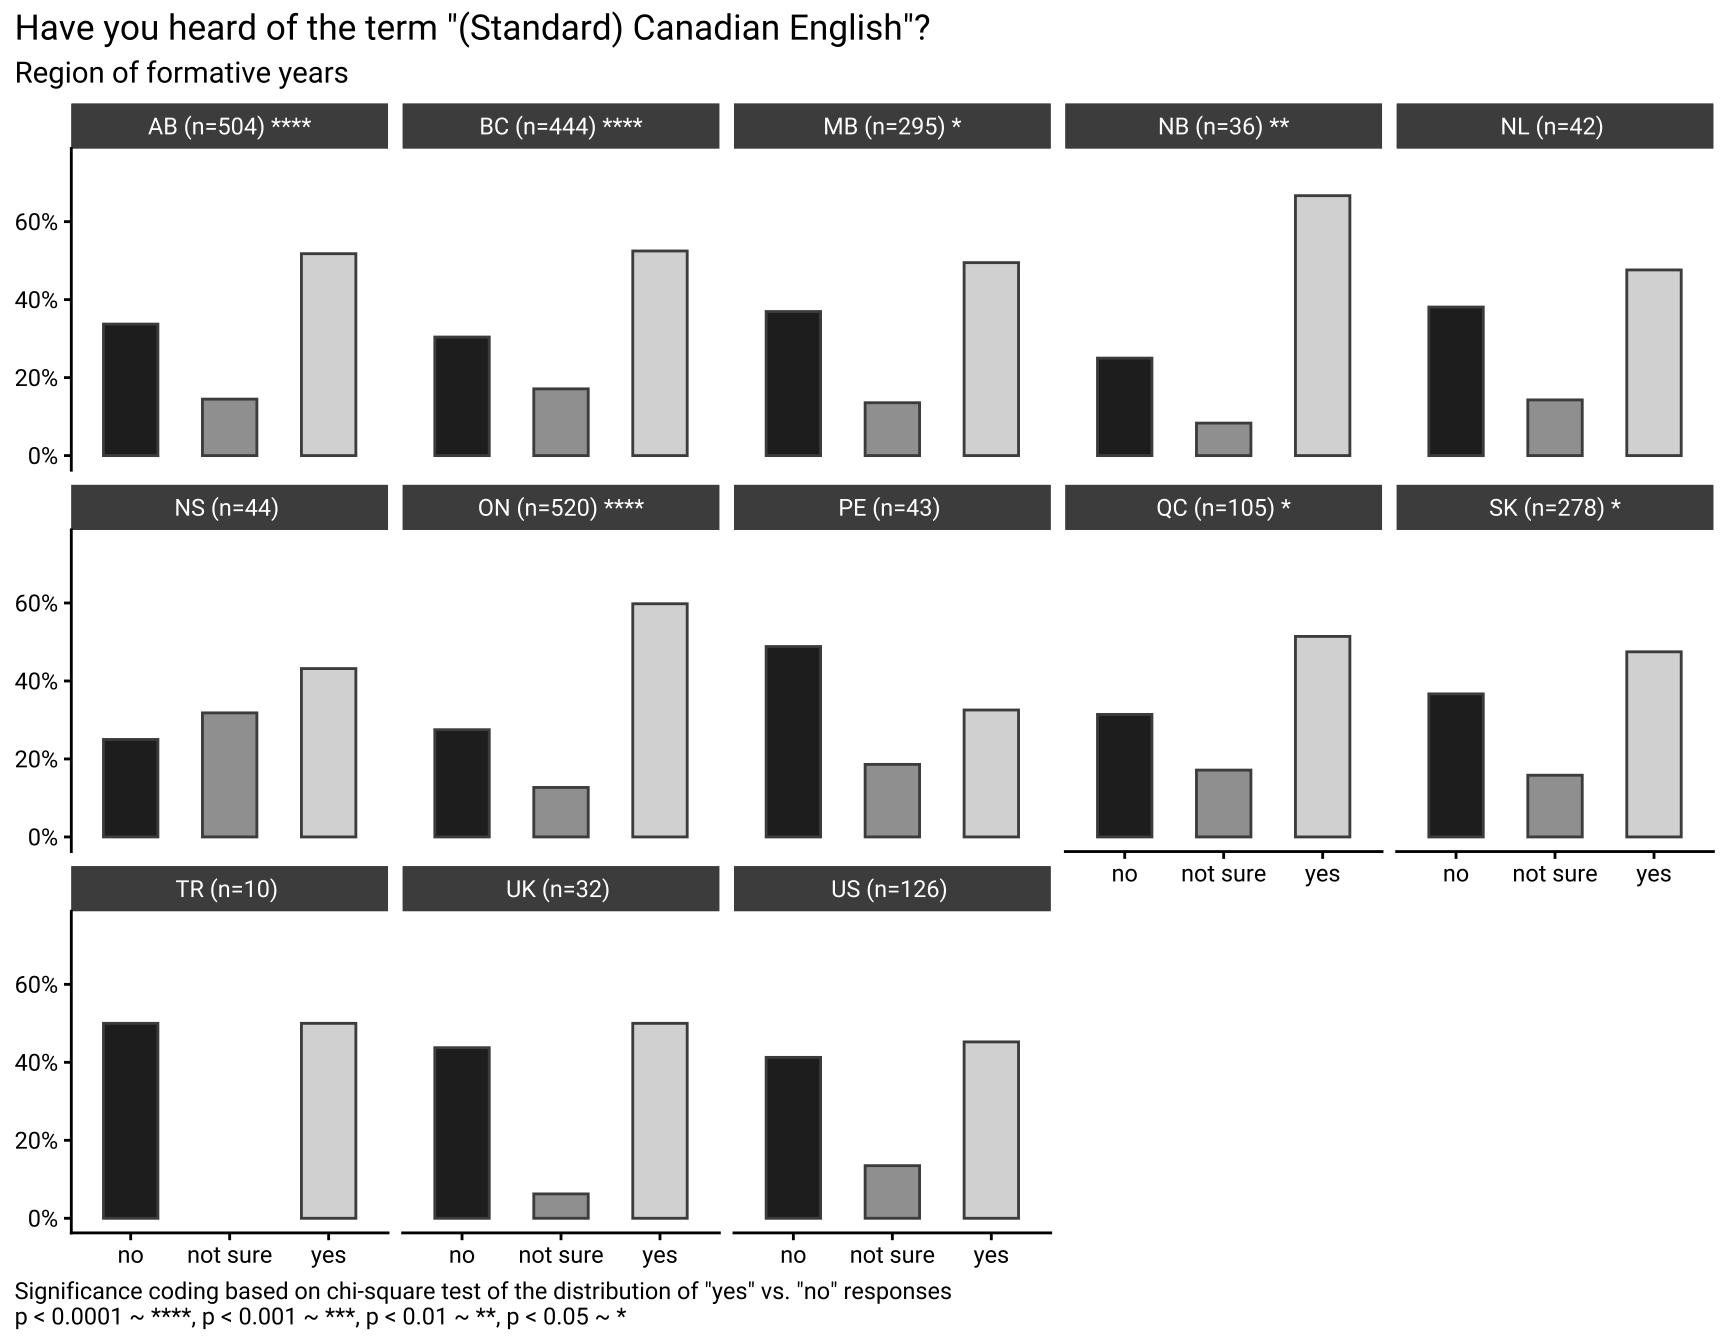
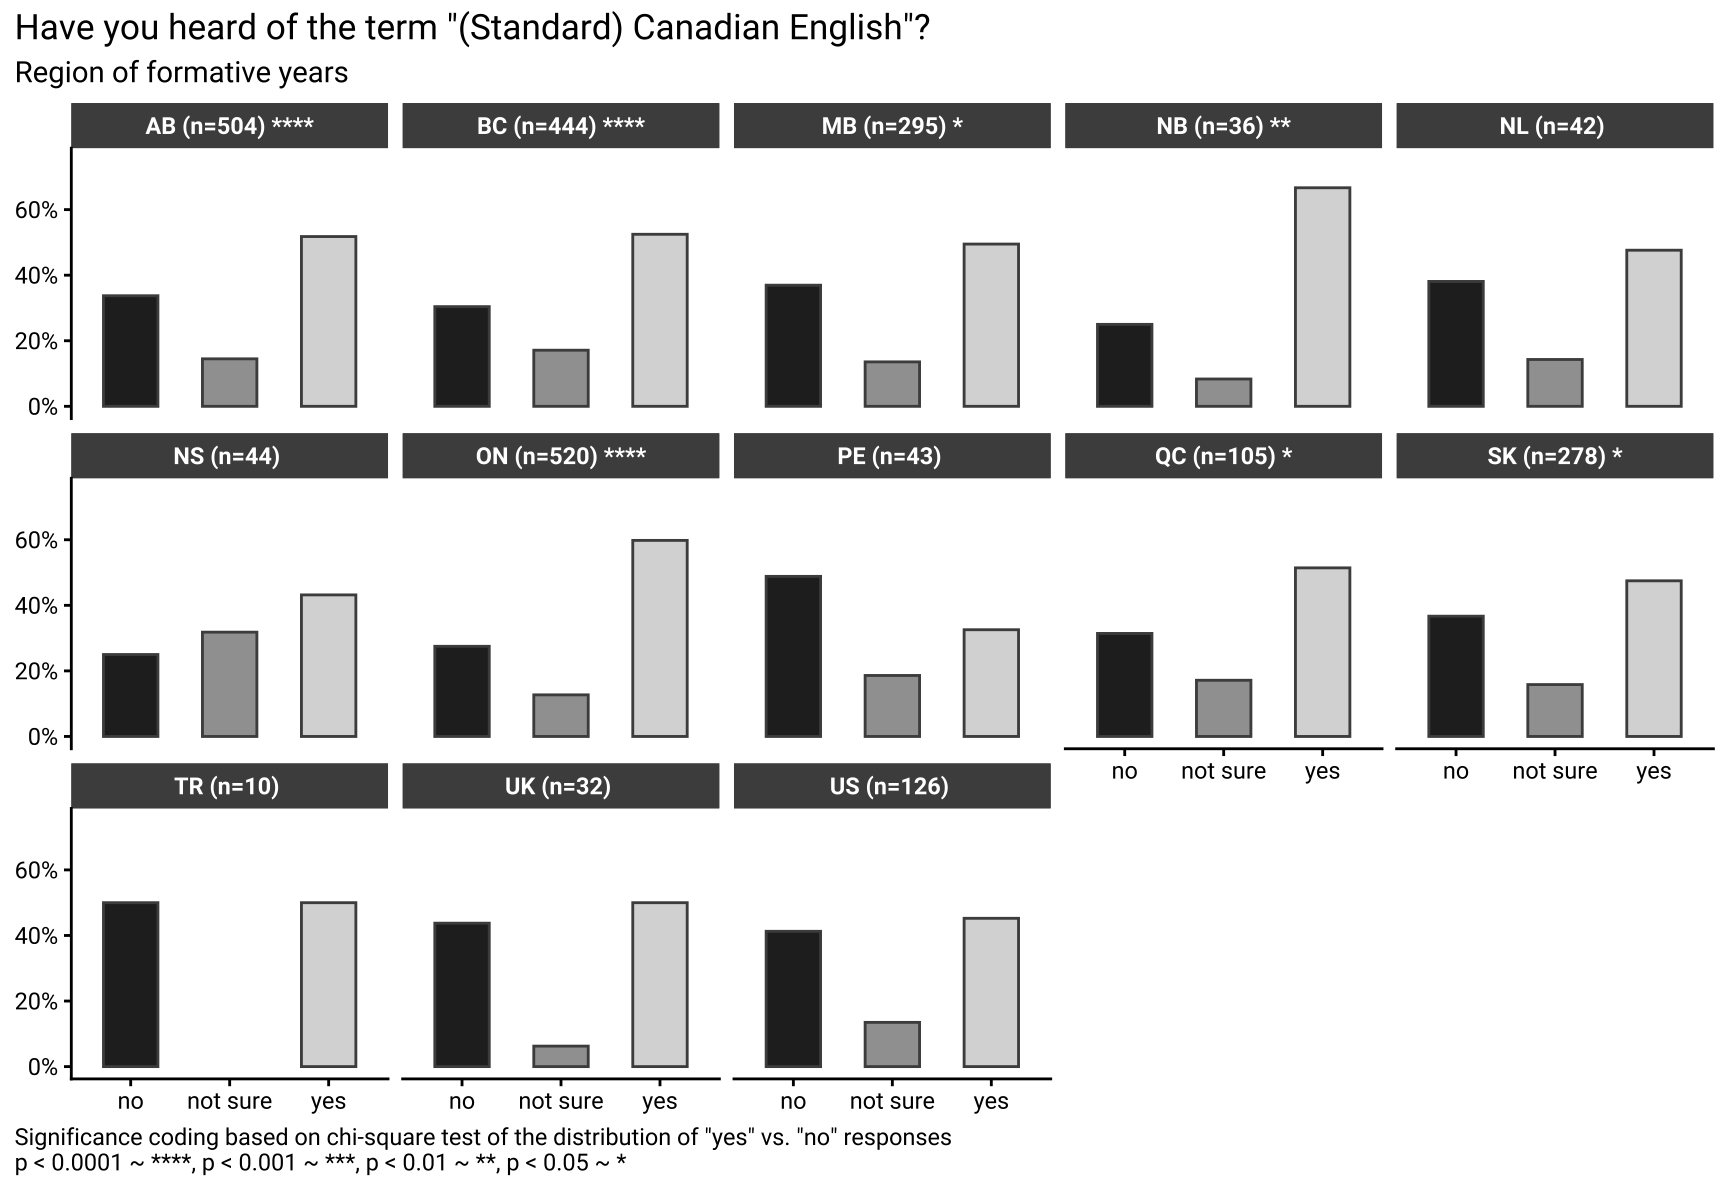
fonts fig 4

diff --git a/index.html b/index.html
@@ -333,23 +333,23 @@ To Stefan
 <p>I have selected the following variables by short names, hoping that these are the correct ones to show in Figure 2.</p>
 <div class="cell">
 <div class="cell-output-display">
-<div id="slkbmikjwu" style="padding-left:0px;padding-right:0px;padding-top:10px;padding-bottom:10px;overflow-x:auto;overflow-y:auto;width:auto;height:auto;">
-<style>#slkbmikjwu table {
+<div id="qpcyoikcrb" style="padding-left:0px;padding-right:0px;padding-top:10px;padding-bottom:10px;overflow-x:auto;overflow-y:auto;width:auto;height:auto;">
+<style>#qpcyoikcrb table {
   font-family: system-ui, 'Segoe UI', Roboto, Helvetica, Arial, sans-serif, 'Apple Color Emoji', 'Segoe UI Emoji', 'Segoe UI Symbol', 'Noto Color Emoji';
   -webkit-font-smoothing: antialiased;
   -moz-osx-font-smoothing: grayscale;
 }
 
-#slkbmikjwu thead, #slkbmikjwu tbody, #slkbmikjwu tfoot, #slkbmikjwu tr, #slkbmikjwu td, #slkbmikjwu th {
+#qpcyoikcrb thead, #qpcyoikcrb tbody, #qpcyoikcrb tfoot, #qpcyoikcrb tr, #qpcyoikcrb td, #qpcyoikcrb th {
   border-style: none;
 }
 
-#slkbmikjwu p {
+#qpcyoikcrb p {
   margin: 0;
   padding: 0;
 }
 
-#slkbmikjwu .gt_table {
+#qpcyoikcrb .gt_table {
   display: table;
   border-collapse: collapse;
   line-height: normal;
@@ -375,12 +375,12 @@ To Stefan
   border-left-color: #D3D3D3;
 }
 
-#slkbmikjwu .gt_caption {
+#qpcyoikcrb .gt_caption {
   padding-top: 4px;
   padding-bottom: 4px;
 }
 
-#slkbmikjwu .gt_title {
+#qpcyoikcrb .gt_title {
   color: #333333;
   font-size: 125%;
   font-weight: initial;
@@ -392,7 +392,7 @@ To Stefan
   border-bottom-width: 0;
 }
 
-#slkbmikjwu .gt_subtitle {
+#qpcyoikcrb .gt_subtitle {
   color: #333333;
   font-size: 85%;
   font-weight: initial;
@@ -404,7 +404,7 @@ To Stefan
   border-top-width: 0;
 }
 
-#slkbmikjwu .gt_heading {
+#qpcyoikcrb .gt_heading {
   background-color: #FFFFFF;
   text-align: center;
   border-bottom-color: #FFFFFF;
@@ -416,13 +416,13 @@ To Stefan
   border-right-color: #D3D3D3;
 }
 
-#slkbmikjwu .gt_bottom_border {
+#qpcyoikcrb .gt_bottom_border {
   border-bottom-style: solid;
   border-bottom-width: 2px;
   border-bottom-color: #D3D3D3;
 }
 
-#slkbmikjwu .gt_col_headings {
+#qpcyoikcrb .gt_col_headings {
   border-top-style: solid;
   border-top-width: 2px;
   border-top-color: #D3D3D3;
@@ -437,7 +437,7 @@ To Stefan
   border-right-color: #D3D3D3;
 }
 
-#slkbmikjwu .gt_col_heading {
+#qpcyoikcrb .gt_col_heading {
   color: #333333;
   background-color: #FFFFFF;
   font-size: 100%;
@@ -457,7 +457,7 @@ To Stefan
   overflow-x: hidden;
 }
 
-#slkbmikjwu .gt_column_spanner_outer {
+#qpcyoikcrb .gt_column_spanner_outer {
   color: #333333;
   background-color: #FFFFFF;
   font-size: 100%;
@@ -469,15 +469,15 @@ To Stefan
   padding-right: 4px;
 }
 
-#slkbmikjwu .gt_column_spanner_outer:first-child {
+#qpcyoikcrb .gt_column_spanner_outer:first-child {
   padding-left: 0;
 }
 
-#slkbmikjwu .gt_column_spanner_outer:last-child {
+#qpcyoikcrb .gt_column_spanner_outer:last-child {
   padding-right: 0;
 }
 
-#slkbmikjwu .gt_column_spanner {
+#qpcyoikcrb .gt_column_spanner {
   border-bottom-style: solid;
   border-bottom-width: 2px;
   border-bottom-color: #D3D3D3;
@@ -489,11 +489,11 @@ To Stefan
   width: 100%;
 }
 
-#slkbmikjwu .gt_spanner_row {
+#qpcyoikcrb .gt_spanner_row {
   border-bottom-style: hidden;
 }
 
-#slkbmikjwu .gt_group_heading {
+#qpcyoikcrb .gt_group_heading {
   padding-top: 8px;
   padding-bottom: 8px;
   padding-left: 5px;
@@ -519,7 +519,7 @@ To Stefan
   text-align: left;
 }
 
-#slkbmikjwu .gt_empty_group_heading {
+#qpcyoikcrb .gt_empty_group_heading {
   padding: 0.5px;
   color: #333333;
   background-color: #FFFFFF;
@@ -534,15 +534,15 @@ To Stefan
   vertical-align: middle;
 }
 
-#slkbmikjwu .gt_from_md > :first-child {
+#qpcyoikcrb .gt_from_md > :first-child {
   margin-top: 0;
 }
 
-#slkbmikjwu .gt_from_md > :last-child {
+#qpcyoikcrb .gt_from_md > :last-child {
   margin-bottom: 0;
 }
 
-#slkbmikjwu .gt_row {
+#qpcyoikcrb .gt_row {
   padding-top: 8px;
   padding-bottom: 8px;
   padding-left: 5px;
@@ -561,7 +561,7 @@ To Stefan
   overflow-x: hidden;
 }
 
-#slkbmikjwu .gt_stub {
+#qpcyoikcrb .gt_stub {
   color: #333333;
   background-color: #FFFFFF;
   font-size: 100%;
@@ -574,7 +574,7 @@ To Stefan
   padding-right: 5px;
 }
 
-#slkbmikjwu .gt_stub_row_group {
+#qpcyoikcrb .gt_stub_row_group {
   color: #333333;
   background-color: #FFFFFF;
   font-size: 100%;
@@ -588,15 +588,15 @@ To Stefan
   vertical-align: top;
 }
 
-#slkbmikjwu .gt_row_group_first td {
+#qpcyoikcrb .gt_row_group_first td {
   border-top-width: 2px;
 }
 
-#slkbmikjwu .gt_row_group_first th {
+#qpcyoikcrb .gt_row_group_first th {
   border-top-width: 2px;
 }
 
-#slkbmikjwu .gt_summary_row {
+#qpcyoikcrb .gt_summary_row {
   color: #333333;
   background-color: #FFFFFF;
   text-transform: inherit;
@@ -606,16 +606,16 @@ To Stefan
   padding-right: 5px;
 }
 
-#slkbmikjwu .gt_first_summary_row {
+#qpcyoikcrb .gt_first_summary_row {
   border-top-style: solid;
   border-top-color: #D3D3D3;
 }
 
-#slkbmikjwu .gt_first_summary_row.thick {
+#qpcyoikcrb .gt_first_summary_row.thick {
   border-top-width: 2px;
 }
 
-#slkbmikjwu .gt_last_summary_row {
+#qpcyoikcrb .gt_last_summary_row {
   padding-top: 8px;
   padding-bottom: 8px;
   padding-left: 5px;
@@ -625,7 +625,7 @@ To Stefan
   border-bottom-color: #D3D3D3;
 }
 
-#slkbmikjwu .gt_grand_summary_row {
+#qpcyoikcrb .gt_grand_summary_row {
   color: #333333;
   background-color: #FFFFFF;
   text-transform: inherit;
@@ -635,7 +635,7 @@ To Stefan
   padding-right: 5px;
 }
 
-#slkbmikjwu .gt_first_grand_summary_row {
+#qpcyoikcrb .gt_first_grand_summary_row {
   padding-top: 8px;
   padding-bottom: 8px;
   padding-left: 5px;
@@ -645,7 +645,7 @@ To Stefan
   border-top-color: #D3D3D3;
 }
 
-#slkbmikjwu .gt_last_grand_summary_row_top {
+#qpcyoikcrb .gt_last_grand_summary_row_top {
   padding-top: 8px;
   padding-bottom: 8px;
   padding-left: 5px;
@@ -655,11 +655,11 @@ To Stefan
   border-bottom-color: #D3D3D3;
 }
 
-#slkbmikjwu .gt_striped {
+#qpcyoikcrb .gt_striped {
   background-color: rgba(128, 128, 128, 0.05);
 }
 
-#slkbmikjwu .gt_table_body {
+#qpcyoikcrb .gt_table_body {
   border-top-style: solid;
   border-top-width: 2px;
   border-top-color: #D3D3D3;
@@ -668,7 +668,7 @@ To Stefan
   border-bottom-color: #D3D3D3;
 }
 
-#slkbmikjwu .gt_footnotes {
+#qpcyoikcrb .gt_footnotes {
   color: #333333;
   background-color: #FFFFFF;
   border-bottom-style: none;
@@ -682,7 +682,7 @@ To Stefan
   border-right-color: #D3D3D3;
 }
 
-#slkbmikjwu .gt_footnote {
+#qpcyoikcrb .gt_footnote {
   margin: 0px;
   font-size: 90%;
   padding-top: 4px;
@@ -691,7 +691,7 @@ To Stefan
   padding-right: 5px;
 }
 
-#slkbmikjwu .gt_sourcenotes {
+#qpcyoikcrb .gt_sourcenotes {
   color: #333333;
   background-color: #FFFFFF;
   border-bottom-style: none;
@@ -705,7 +705,7 @@ To Stefan
   border-right-color: #D3D3D3;
 }
 
-#slkbmikjwu .gt_sourcenote {
+#qpcyoikcrb .gt_sourcenote {
   font-size: 90%;
   padding-top: 4px;
   padding-bottom: 4px;
@@ -713,72 +713,72 @@ To Stefan
   padding-right: 5px;
 }
 
-#slkbmikjwu .gt_left {
+#qpcyoikcrb .gt_left {
   text-align: left;
 }
 
-#slkbmikjwu .gt_center {
+#qpcyoikcrb .gt_center {
   text-align: center;
 }
 
-#slkbmikjwu .gt_right {
+#qpcyoikcrb .gt_right {
   text-align: right;
   font-variant-numeric: tabular-nums;
 }
 
-#slkbmikjwu .gt_font_normal {
+#qpcyoikcrb .gt_font_normal {
   font-weight: normal;
 }
 
-#slkbmikjwu .gt_font_bold {
+#qpcyoikcrb .gt_font_bold {
   font-weight: bold;
 }
 
-#slkbmikjwu .gt_font_italic {
+#qpcyoikcrb .gt_font_italic {
   font-style: italic;
 }
 
-#slkbmikjwu .gt_super {
+#qpcyoikcrb .gt_super {
   font-size: 65%;
 }
 
-#slkbmikjwu .gt_footnote_marks {
+#qpcyoikcrb .gt_footnote_marks {
   font-size: 75%;
   vertical-align: 0.4em;
   position: initial;
 }
 
-#slkbmikjwu .gt_asterisk {
+#qpcyoikcrb .gt_asterisk {
   font-size: 100%;
   vertical-align: 0;
 }
 
-#slkbmikjwu .gt_indent_1 {
+#qpcyoikcrb .gt_indent_1 {
   text-indent: 5px;
 }
 
-#slkbmikjwu .gt_indent_2 {
+#qpcyoikcrb .gt_indent_2 {
   text-indent: 10px;
 }
 
-#slkbmikjwu .gt_indent_3 {
+#qpcyoikcrb .gt_indent_3 {
   text-indent: 15px;
 }
 
-#slkbmikjwu .gt_indent_4 {
+#qpcyoikcrb .gt_indent_4 {
   text-indent: 20px;
 }
 
-#slkbmikjwu .gt_indent_5 {
+#qpcyoikcrb .gt_indent_5 {
   text-indent: 25px;
 }
 
-#slkbmikjwu .katex-display {
+#qpcyoikcrb .katex-display {
   display: inline-flex !important;
   margin-bottom: 0.75em !important;
 }
 
-#slkbmikjwu div.Reactable > div.rt-table > div.rt-thead > div.rt-tr.rt-tr-group-header > div.rt-th-group:after {
+#qpcyoikcrb div.Reactable > div.rt-table > div.rt-thead > div.rt-tr.rt-tr-group-header > div.rt-th-group:after {
   height: 0px !important;
 }
 </style>
@@ -1234,11 +1234,12 @@ Figure&nbsp;3: Canadian dictionary titles and the phrase “Canadian English” 
 <span id="cb4-80"><a href="#cb4-80" aria-hidden="true" tabindex="-1"></a>    <span class="at">plot.caption.position =</span> <span class="st">"plot"</span>,</span>
 <span id="cb4-81"><a href="#cb4-81" aria-hidden="true" tabindex="-1"></a>    <span class="at">plot.caption =</span> <span class="fu">element_text</span>(<span class="at">hjust =</span> <span class="dv">0</span>),</span>
 <span id="cb4-82"><a href="#cb4-82" aria-hidden="true" tabindex="-1"></a>    <span class="at">strip.background =</span> <span class="fu">element_rect</span>(<span class="at">fill =</span> <span class="st">"grey30"</span>, <span class="at">color =</span> <span class="st">"grey30"</span>), </span>
-<span id="cb4-83"><a href="#cb4-83" aria-hidden="true" tabindex="-1"></a>    <span class="at">strip.text =</span> <span class="fu">element_text</span>(<span class="at">color =</span> <span class="st">"white"</span>)</span>
-<span id="cb4-84"><a href="#cb4-84" aria-hidden="true" tabindex="-1"></a>    )</span>
-<span id="cb4-85"><a href="#cb4-85" aria-hidden="true" tabindex="-1"></a></span>
-<span id="cb4-86"><a href="#cb4-86" aria-hidden="true" tabindex="-1"></a><span class="co"># p3 + scale_fill_manual(values = c("#E69F00", "#0072B2", "#F0E442", "#D55E00", "#CC79A7")) </span></span>
-<span id="cb4-87"><a href="#cb4-87" aria-hidden="true" tabindex="-1"></a>p3 <span class="sc">+</span> <span class="fu">scale_fill_grey</span>(<span class="at">start=</span><span class="fl">0.15</span>, <span class="at">end=</span>.<span class="dv">85</span>)</span></code><button title="Copy to Clipboard" class="code-copy-button"><i class="bi"></i></button></pre></div>
+<span id="cb4-83"><a href="#cb4-83" aria-hidden="true" tabindex="-1"></a>    <span class="at">strip.text =</span> <span class="fu">element_text</span>(<span class="at">color =</span> <span class="st">"white"</span>,</span>
+<span id="cb4-84"><a href="#cb4-84" aria-hidden="true" tabindex="-1"></a>                              <span class="at">face =</span> <span class="st">"bold"</span>)</span>
+<span id="cb4-85"><a href="#cb4-85" aria-hidden="true" tabindex="-1"></a>    )</span>
+<span id="cb4-86"><a href="#cb4-86" aria-hidden="true" tabindex="-1"></a></span>
+<span id="cb4-87"><a href="#cb4-87" aria-hidden="true" tabindex="-1"></a><span class="co"># p3 + scale_fill_manual(values = c("#E69F00", "#0072B2", "#F0E442", "#D55E00", "#CC79A7")) </span></span>
+<span id="cb4-88"><a href="#cb4-88" aria-hidden="true" tabindex="-1"></a>p3 <span class="sc">+</span> <span class="fu">scale_fill_grey</span>(<span class="at">start=</span><span class="fl">0.15</span>, <span class="at">end=</span>.<span class="dv">85</span>)</span></code><button title="Copy to Clipboard" class="code-copy-button"><i class="bi"></i></button></pre></div>
 </details>
 <div class="cell-output-display page-columns page-full">
 <div id="fig-stheard-by-region" class="quarto-float quarto-figure quarto-figure-center anchored page-columns page-full">
